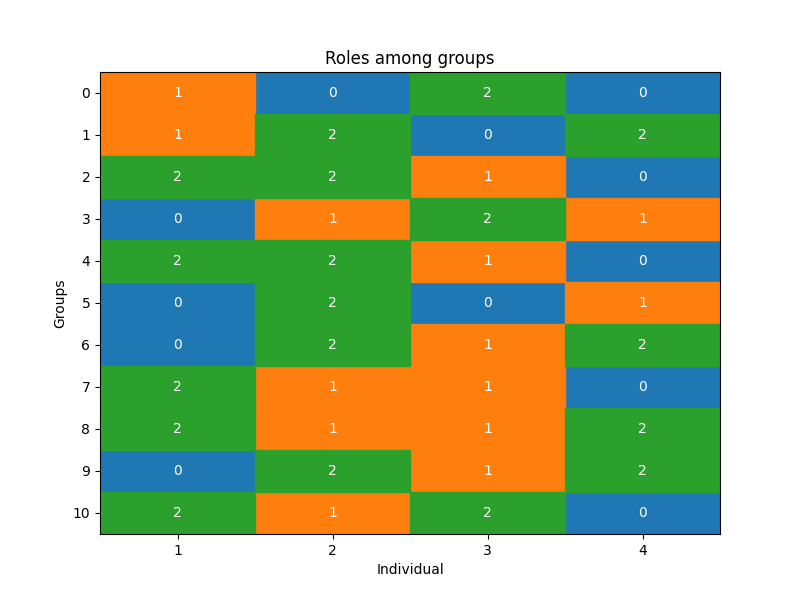
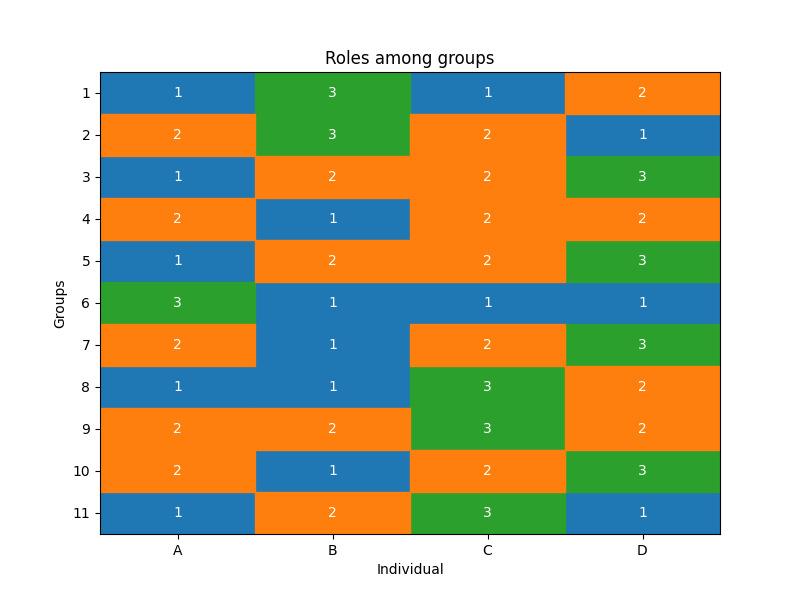
graph updates for Roles and scatter plots

diff --git a/GraphTool.py b/GraphTool.py
@@ -21,7 +21,7 @@ import numpy				as np
 import matplotlib.pyplot	as plt
 
 
-
+#grid plot for roles within groups
 class RoleGraph(object):
 	def __init__(self,all_data,n_clusters,num_groups=11):
 		self.all_data		=  all_data
@@ -66,15 +66,15 @@ class RoleGraph(object):
 				# Adjust row for visualization (matplotlib uses bottom-left as origin)
 				adjusted_row = row - 1
 				ax.add_patch(plt.Rectangle((col - 0.5, adjusted_row - 0.5), 1, 1, color=color, edgecolor="black"))
-				ax.text(col, adjusted_row, role, ha="center", va="center", fontsize=10, color="white")
+				ax.text(col, adjusted_row, role + 1, ha="center", va="center", fontsize=10, color="white")
 
 		# Set grid limits
 		max_row = max(pos[0] for positions in self.grid_mapping.values() for pos in positions)
 		max_col = max(pos[1] for positions in self.grid_mapping.values() for pos in positions)
 		ax.set_xlim(0.5, max_col + 0.5)
 		ax.set_ylim(-0.5, max_row - 0.5)
-		ax.set_xticks(range(1, max_col + 1))
-		ax.set_yticks(range(max_row))
+		ax.set_xticks(ticks=range(1, max_col + 1), labels=individuals)
+		ax.set_yticks(ticks=range(max_row), labels=range(1, max_row+1))
 		ax.invert_yaxis()  # Invert y-axis to make row 1 appear at the top
 		plt.grid(False)
 		plt.title("Roles among groups")
@@ -113,7 +113,7 @@ class RoleGraph(object):
 			
 		return grid_mapping
 
-
+#scatter Plot for Accuracy and Time
 class ScatterMetricVsAccuracy:
 	def __init__(self, data, data_accuracy):
 		"""
@@ -143,13 +143,13 @@ class ScatterMetricVsAccuracy:
 			else:
 				y = self.time
 				ylabel = "Time (sec)"
-				yTextScaling = 40
+				yTextScaling =40
 			
 			# Data labels
 			data_labels = ['Conversation', 'Proximity', 'Attention']
 
 			# Scatter plot for this column
-			plt.scatter(x, y, color=colors[i % len(colors)], label=f"Column {i + 1} Data")
+			plt.scatter(x, y, color=colors[i % len(colors)], label=f"{data_labels[i]} Data")
 
 			# Fit a regression line
 			model = LinearRegression()
@@ -164,12 +164,12 @@ class ScatterMetricVsAccuracy:
 			intercept = model.intercept_
 			slope = model.coef_[0]
 			equation_text = f"$y = {slope:.2f}x + {intercept:.2f}$"
-			plt.text(5, np.max(y) - i * yTextScaling, equation_text, fontsize=10, color=colors[i % len(colors)])
+			plt.text(1, np.max(y) - i * yTextScaling, equation_text, fontsize=10, color=colors[i % len(colors)])
 
 		# Labels, legend, and grid
-		plt.xlabel("Eigen Energy of Group parameters")
+		plt.xlabel("Laplacian Energy of Group parameters")
 		plt.ylabel(ylabel)
-		plt.title(f"Eigen Energy vs {ylabel}")
+		plt.title(f"Laplacian Energy vs {ylabel}")
 		plt.legend()
 		#plt.legend(loc="center left", bbox_to_anchor=(0, 0.2))
 		plt.grid(True)
@@ -189,9 +189,9 @@ def main_graph_tool():
 
 	#initialize data
 	compelition	= clean_compeletion_csv(load_csv("completion_time_and_accuracy.csv"))
-	convo_data	= DataSet("conversation_graphs.json")
-	prox_data	= DataSet("proximity_graphs.json")
-	atten_data	= DataSet("shared_attention_graphs.json")
+	convo_data	= DataSet("conversation_graphs.json", my_directed=False)
+	prox_data	= DataSet("proximity_graphs.json", my_directed=True)
+	atten_data	= DataSet("shared_attention_graphs.json", my_directed=False)
 
 	#convert to eigen values
 	convo_data_eigen	= kmeans_eigenvalues(convo_data.list_adj_matrix).eigenvalues
@@ -221,11 +221,25 @@ def main_graph_tool():
 	
 
 	# row is person, col is data sets
-	group_energy_data=np.zeros((num_groups, 3))
+	"""group_energy_data=np.zeros((num_groups, 3))
 	for i in range(num_groups):
 		group_energy_data[i][0]=prox_data.get_group_energy_laplacian(i+1)
 		group_energy_data[i][1]=convo_data.get_group_energy_laplacian(i+1)
-		group_energy_data[i][2]=atten_data.get_group_energy_laplacian(i+1)
+		group_energy_data[i][2]=atten_data.get_group_energy_laplacian(i+1)"""
+	
+	# row is person, col is data sets
+	"""group_energy_data=np.zeros((num_groups, 3))
+	for i in range(num_groups):
+		group_energy_data[i][0]=prox_data.get_group_energy(i+1)
+		group_energy_data[i][1]=convo_data.get_group_energy(i+1)
+		group_energy_data[i][2]=atten_data.get_group_energy(i+1)"""
+	
+	# row is person, col is data sets
+	group_energy_data=np.zeros((num_groups, 3))
+	for i in range(num_groups):
+		group_energy_data[i][0]=prox_data.get_group_laplacian_energy(i+1)
+		group_energy_data[i][1]=convo_data.get_group_laplacian_energy(i+1)
+		group_energy_data[i][2]=atten_data.get_group_laplacian_energy(i+1)
 
 	print(group_energy_data)
 	visializer = RoleGraph(all_data,3)
